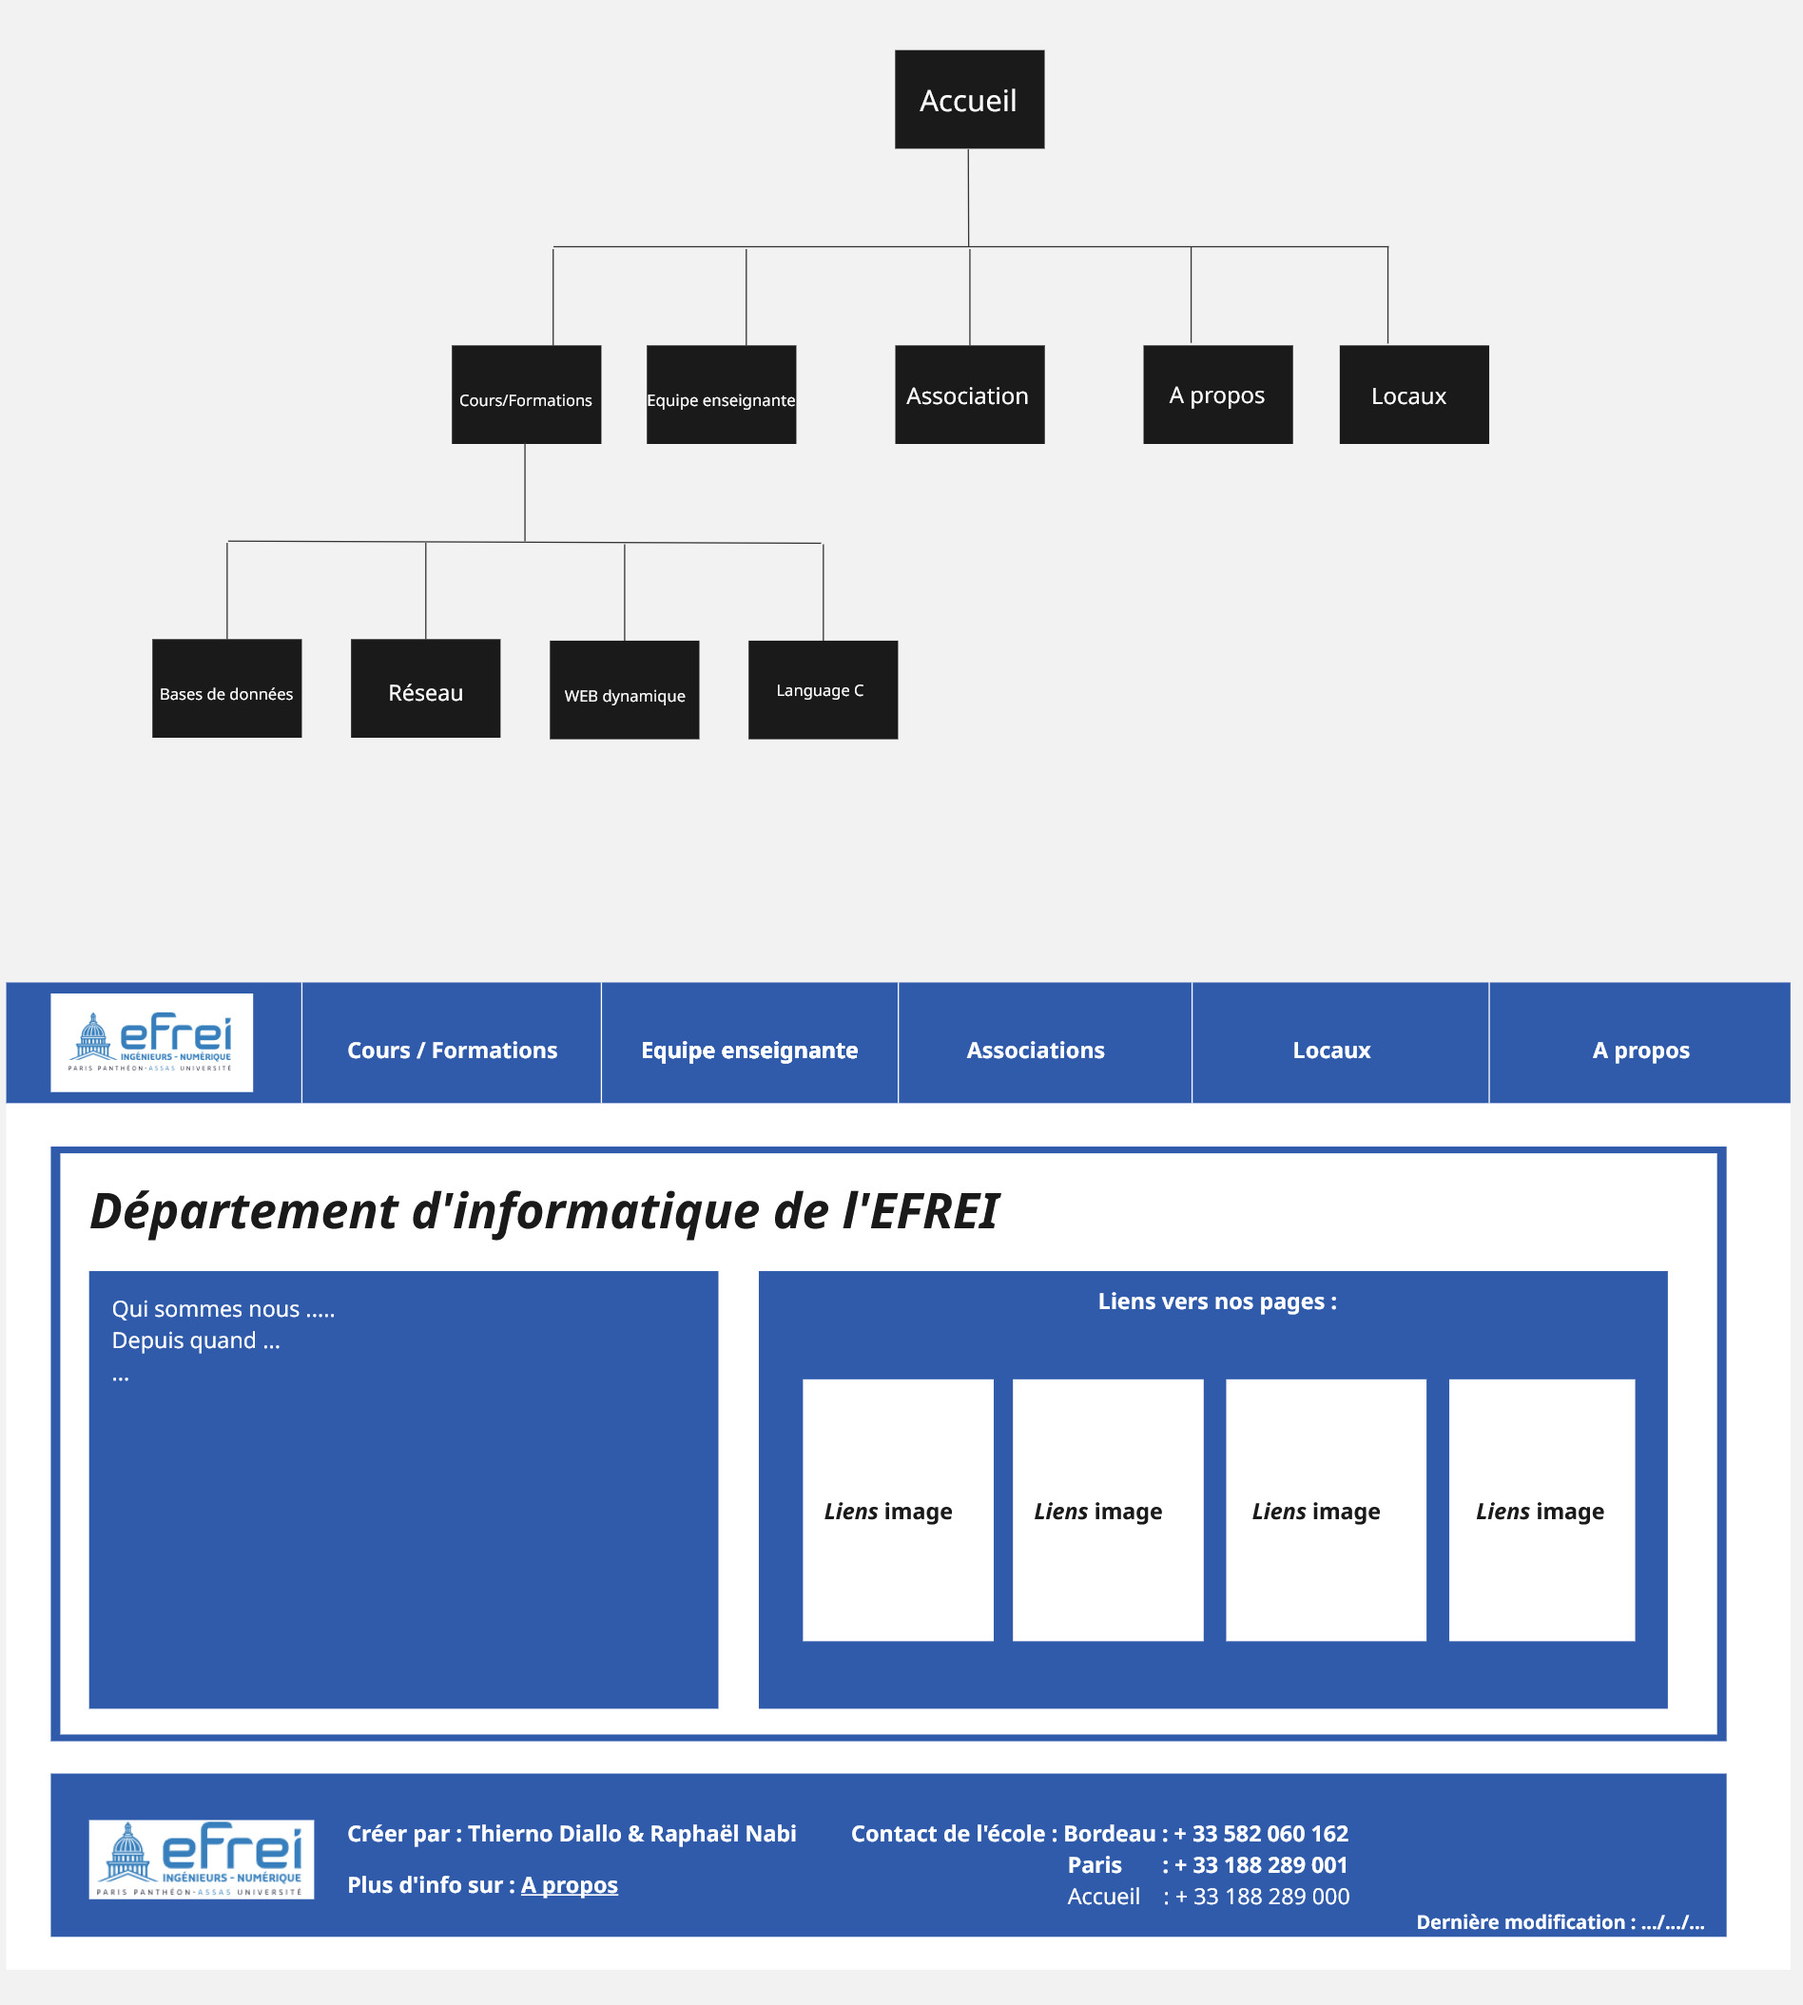
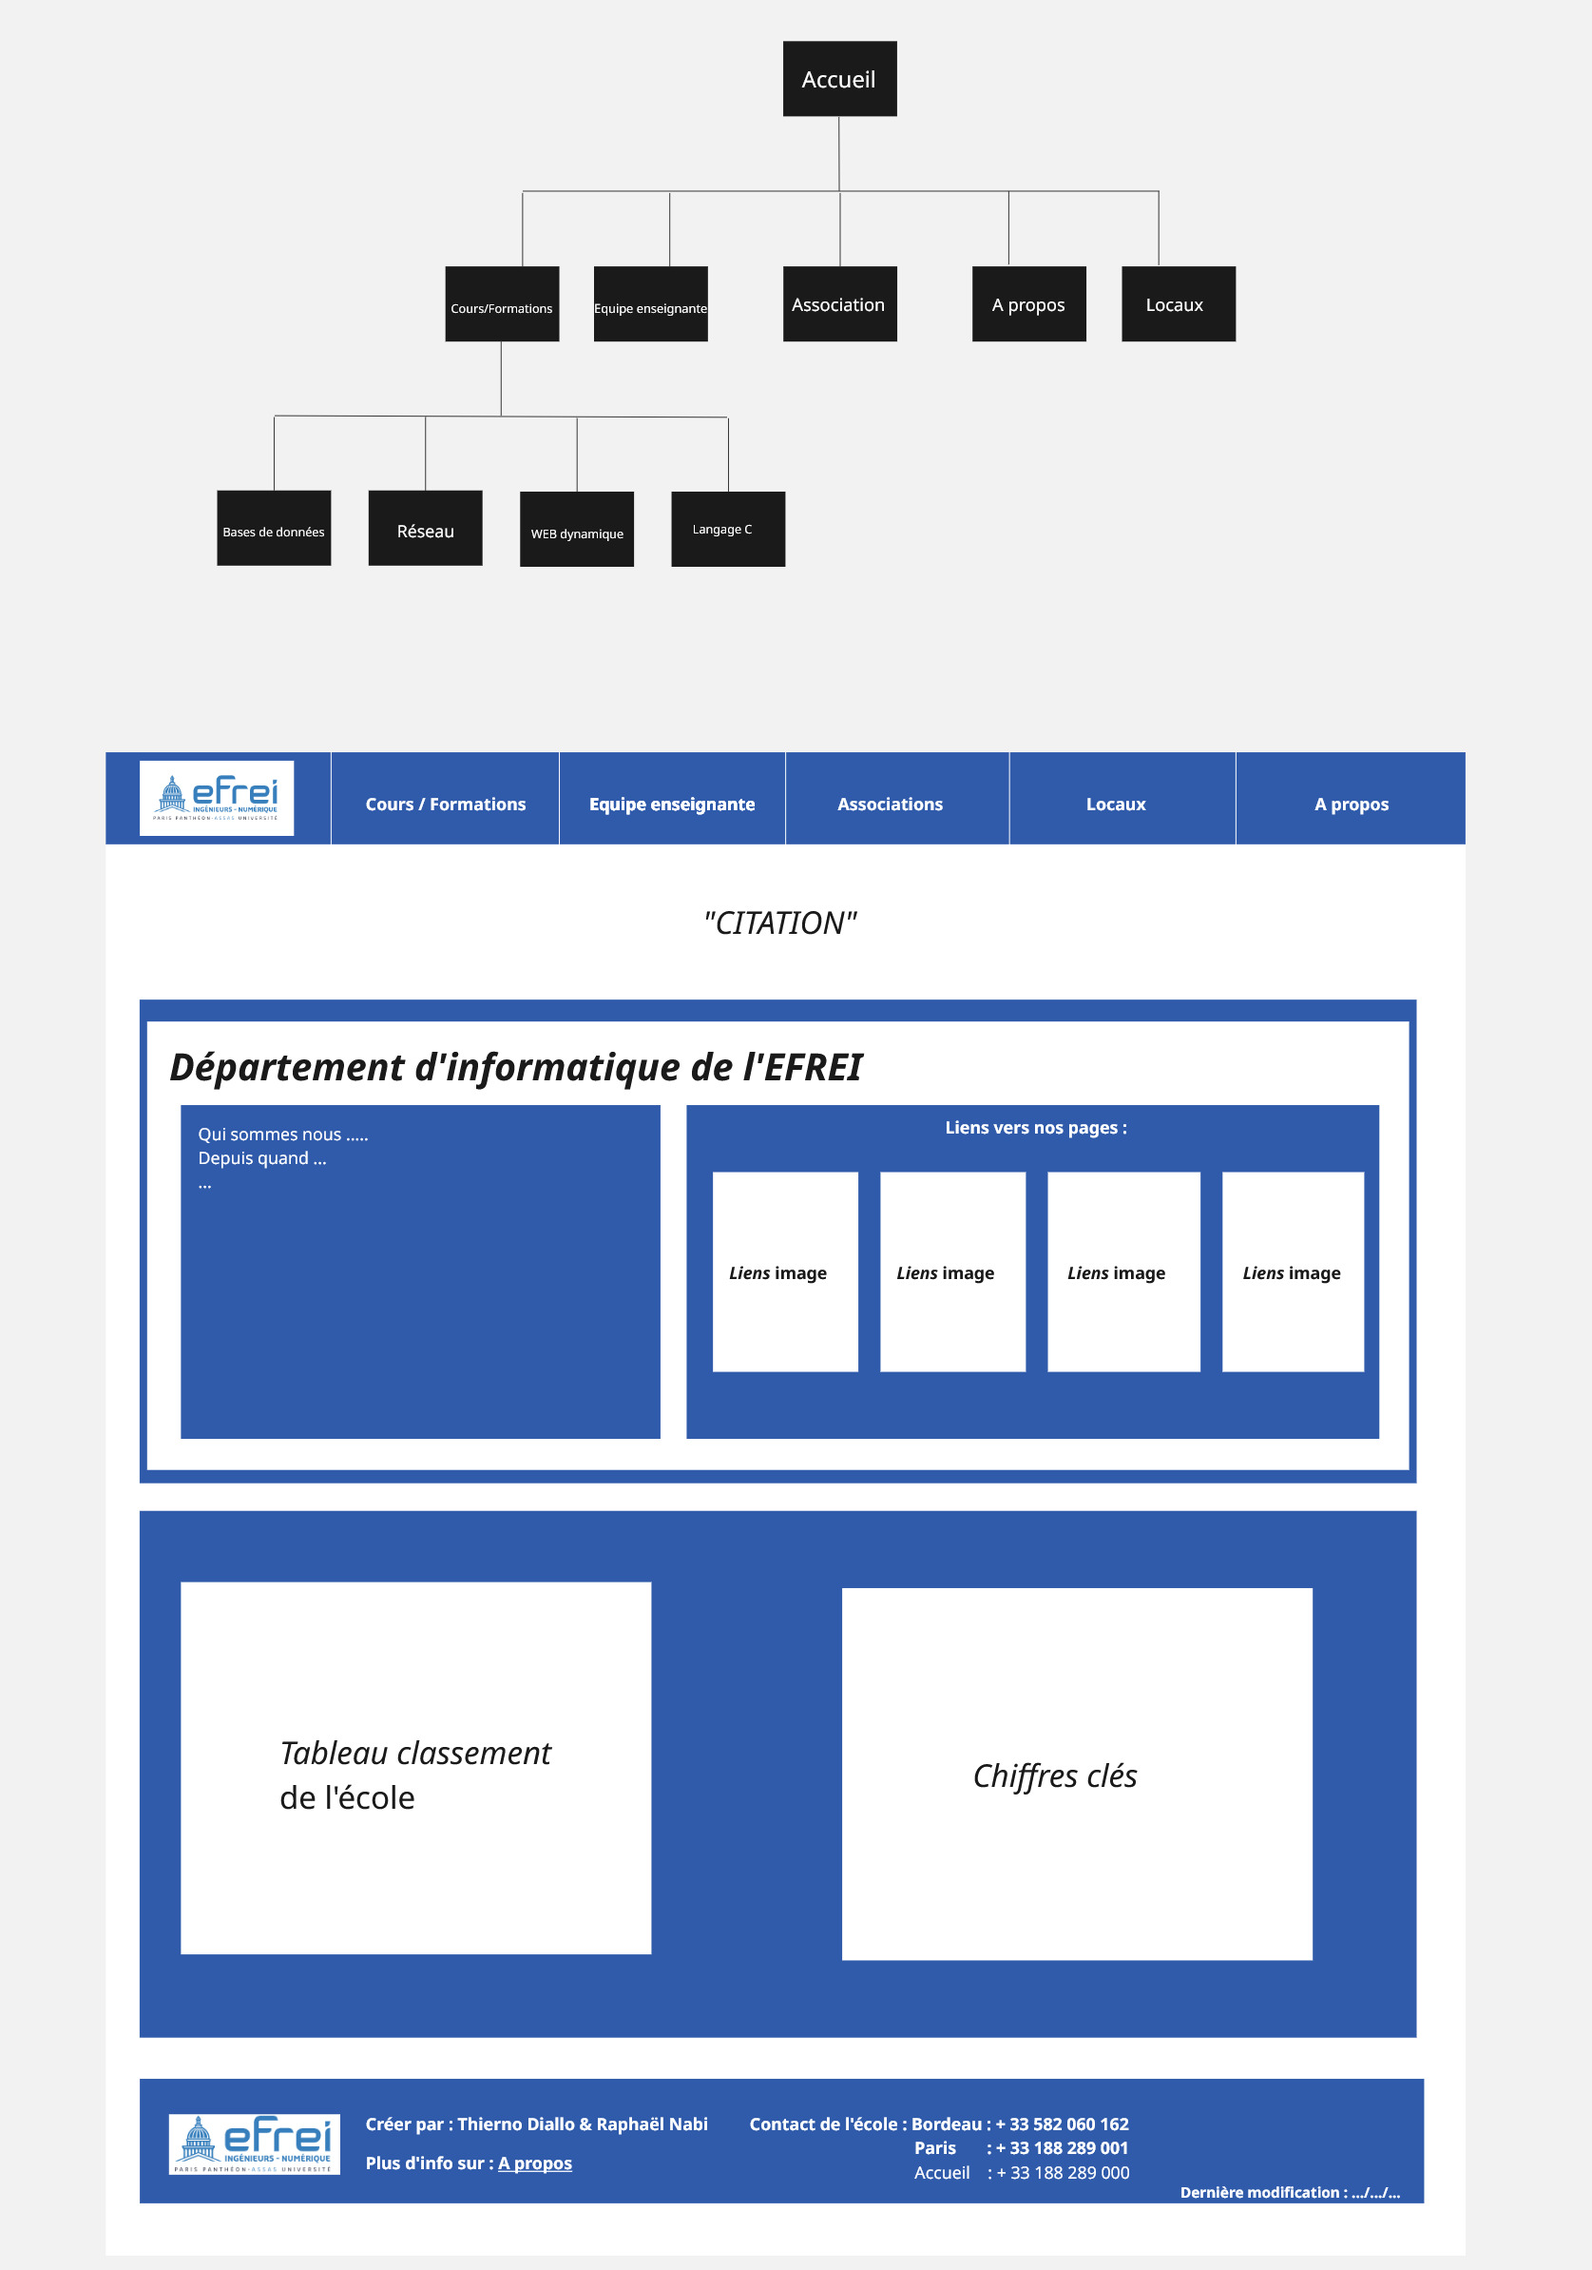
Test

diff --git a/html/apropos.html b/html/apropos.html
@@ -14,7 +14,7 @@
         <nav>
             <a href="accueil.html">Accueil</a>
             <li class="dropdown">
-                <a href="javascript:void(0)">Formati    ons et Cours ▾</a>
+                <a href="">Formations et Cours ▾</a>
                 <div>
                     <a href="basededonnee.html">Base de donnée</a>
                     <a href="langageC.html">Langage C</a>
